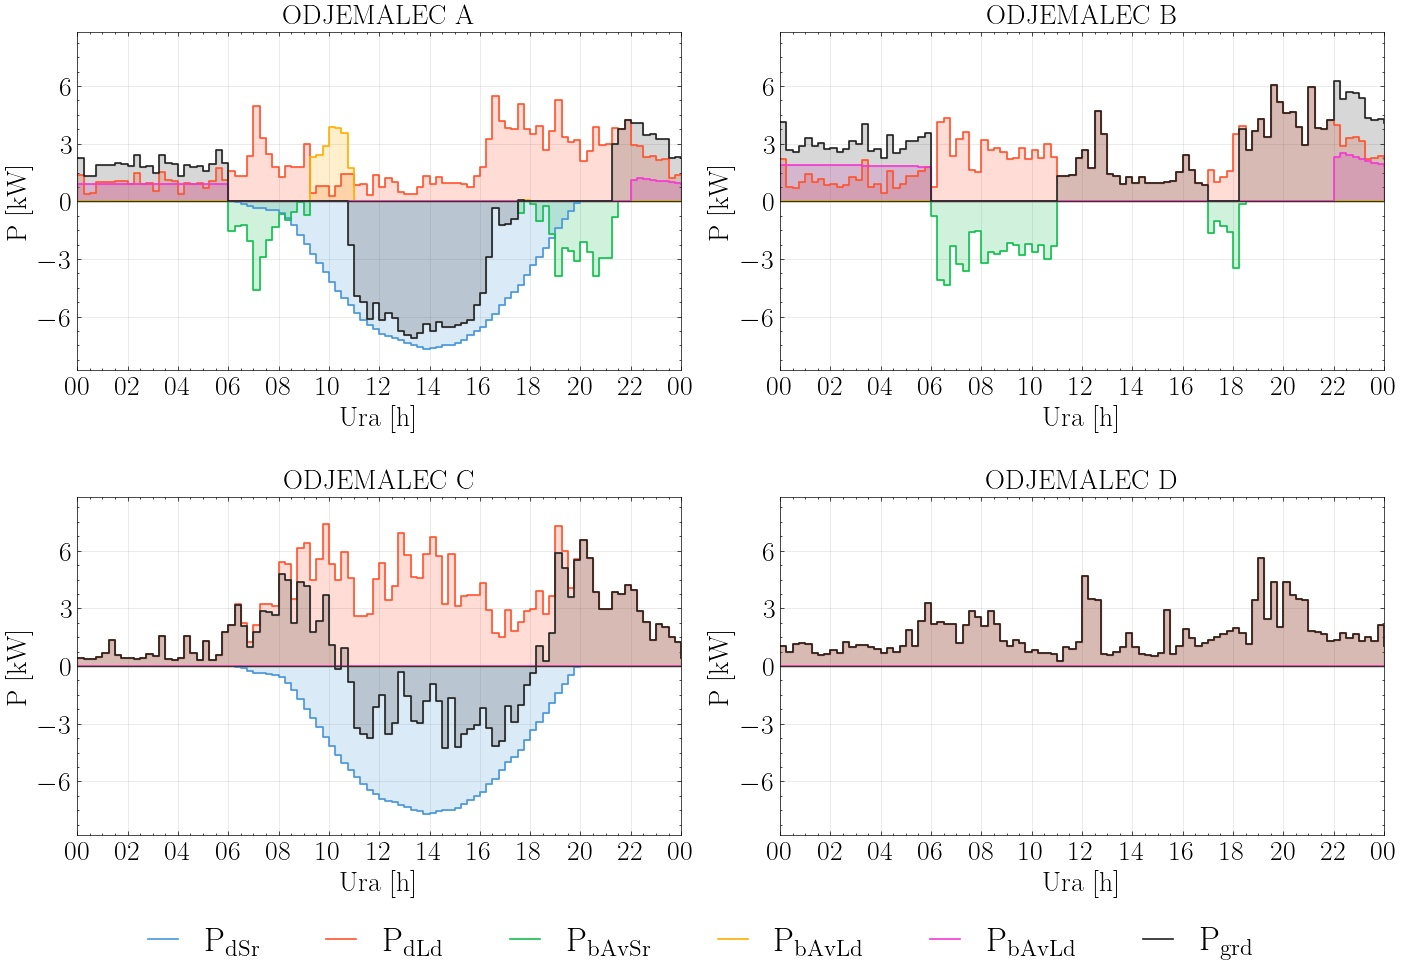
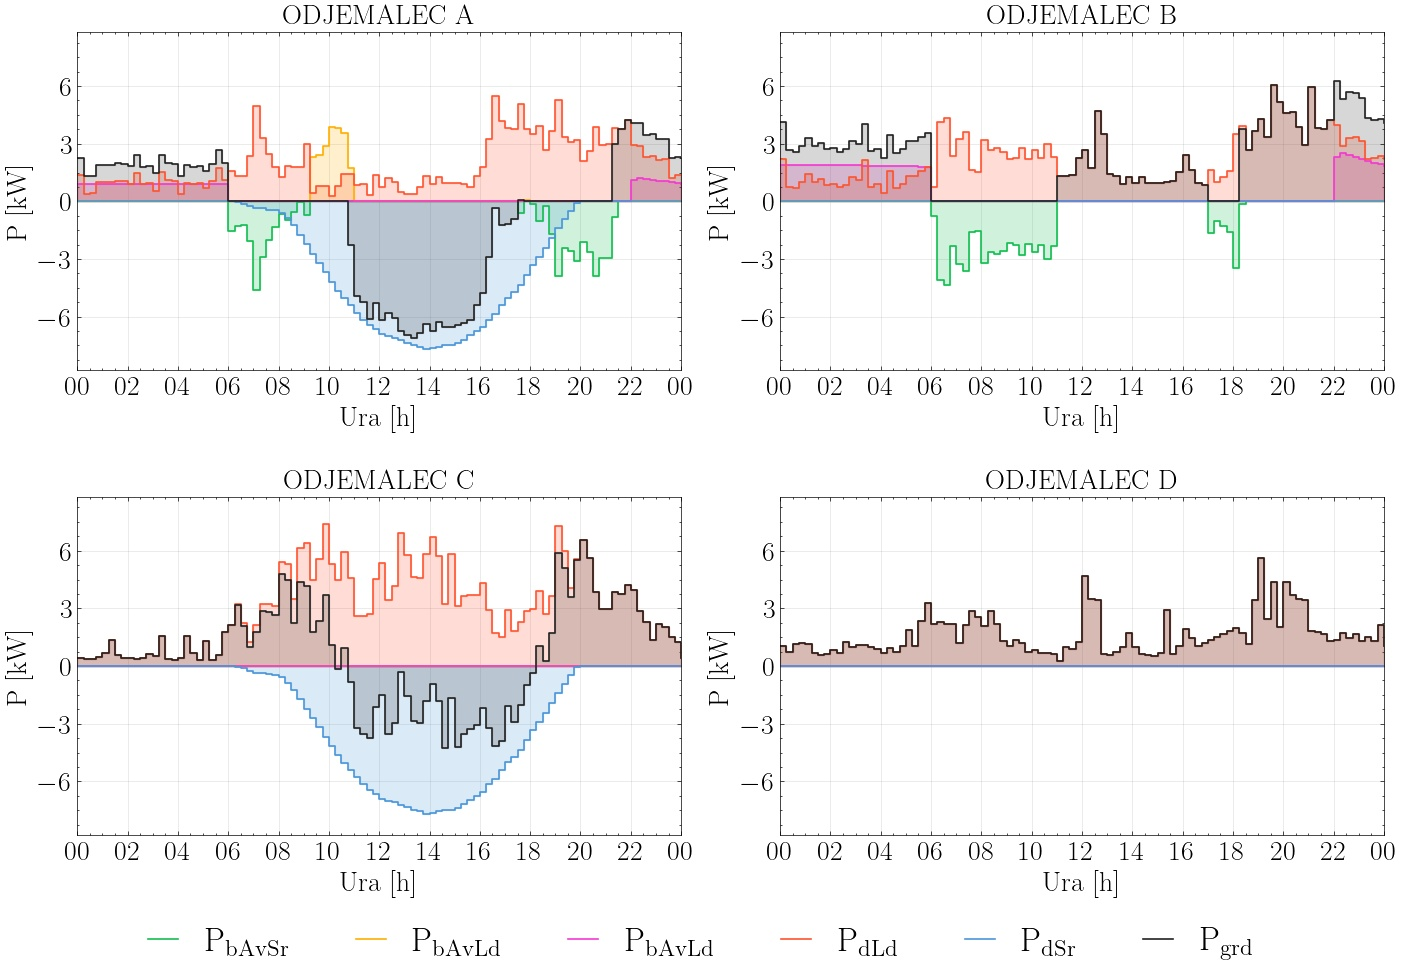
l

diff --git a/SimulatorUser/ExportData/dd.py b/SimulatorUser/ExportData/dd.py
@@ -22,7 +22,7 @@ def readUserPowerData(FileDirecotoryUserData, TestNumber, DatetTimeTest,UserNumb
     wb = load_workbook(filename = FolderPath)
     xlsxPowerMeasurments = wb["PowerMeausurments"]
 
-    asv=99
+    asv=97
 
     row=36
     Pin=[0]*asv
@@ -201,7 +201,7 @@ def drawingPowerSystemGraph(FileDirecotoryUserData, TestNumber, DatetTimeTest, A
     PowerLow=0
     PowerHigh=0
     
-    for q in range (NumberOfUser):
+    for q in range (1):
 
         UserNumber=ArrUserNumber[q]
         UserData=readUserPowerData(FileDirecotoryUserData, TestNumber, DatetTimeTest,UserNumber)
@@ -257,11 +257,7 @@ def drawingPowerGraph(axs,UserData,PowerLow,PowerHigh,fntSize):
 
     let=len(UserData[0])
 
-    axs.fill_between(UserData[0],UserData[3], step="post", color="#4b96da",alpha=0.20)
-    axs.plot(UserData[0],UserData[3],drawstyle="steps-post", color="#4b96da", alpha=1,linewidth=1.2,label=(r'$\mathrm{P_{dSr}}$'))
 
-    axs.fill_between(UserData[0],UserData[4], step="post", color="#ff5430",alpha=0.20)
-    axs.plot(UserData[0],UserData[4],drawstyle="steps-post", color="#ff5430", alpha=1,linewidth=1.2,label=(r'$\mathrm{P_{dLd}}$'))
 
     axs.fill_between(UserData[0],UserData[5], step="post", color="#14be53",alpha=0.20)
     axs.plot(UserData[0],UserData[5],drawstyle="steps-post", color="#14be53", alpha=1,linewidth=1.2,label=(r'$\mathrm{P_{bAvSr}}$'))
@@ -272,12 +268,18 @@ def drawingPowerGraph(axs,UserData,PowerLow,PowerHigh,fntSize):
     axs.fill_between(UserData[0],UserData[7], step="post",color="#f538d3", alpha=0.20)
     axs.plot(UserData[0],UserData[7],drawstyle="steps-post", color="#f538d3", alpha=1,linewidth=1.2,label=(r'$\mathrm{P_{bAvLd}}$'))
 
+    axs.fill_between(UserData[0],UserData[4], step="post", color="#ff5430",alpha=0.20)
+    axs.plot(UserData[0],UserData[4],drawstyle="steps-post", color="#ff5430", alpha=1,linewidth=1.2,label=(r'$\mathrm{P_{dLd}}$'))
+
+    axs.fill_between(UserData[0],UserData[3], step="post", color="#4b96da",alpha=0.20)
+    axs.plot(UserData[0],UserData[3],drawstyle="steps-post", color="#4b96da", alpha=1,linewidth=1.2,label=(r'$\mathrm{P_{dSr}}$'))
+
     Pgrd=np.add(UserData[1],UserData[2])
 
     axs.fill_between(UserData[0],Pgrd, step="post",color="#222222", alpha=0.18)
     axs.plot(UserData[0],Pgrd, drawstyle="steps-post",color="#222222", alpha=1,linewidth=1.2,label=(r'$\mathrm{P_{grd}}$'))
     
-    axs.plot(UserData[0],[0]*let,color="#343232",linewidth=0.8)
+    #axs.plot(UserData[0],[0]*let,color="#343232",linewidth=0.8)
 
     axs.set_xlim(UserData[0][0],UserData[0][len(UserData[0])-1])
 
@@ -411,9 +413,8 @@ SelectedUser=[1,2,3,4]
 FileDirecotory="./"
 DateTime="01/02/2022 00:30"
 
-for i in range (0,3):
-    i=i
-    TestNumber=13
+for i in range (1,2):
+    TestNumber=3030
     drawingPowerGraph4Users(FileDirecotory, TestNumber, DateTime,SelectedUser)
     drawingPowerSystemGraph(FileDirecotory, TestNumber, DateTime,SelectedUser)
     drawingSOCGraaph(FileDirecotory, TestNumber, DateTime,SelectedUser)
